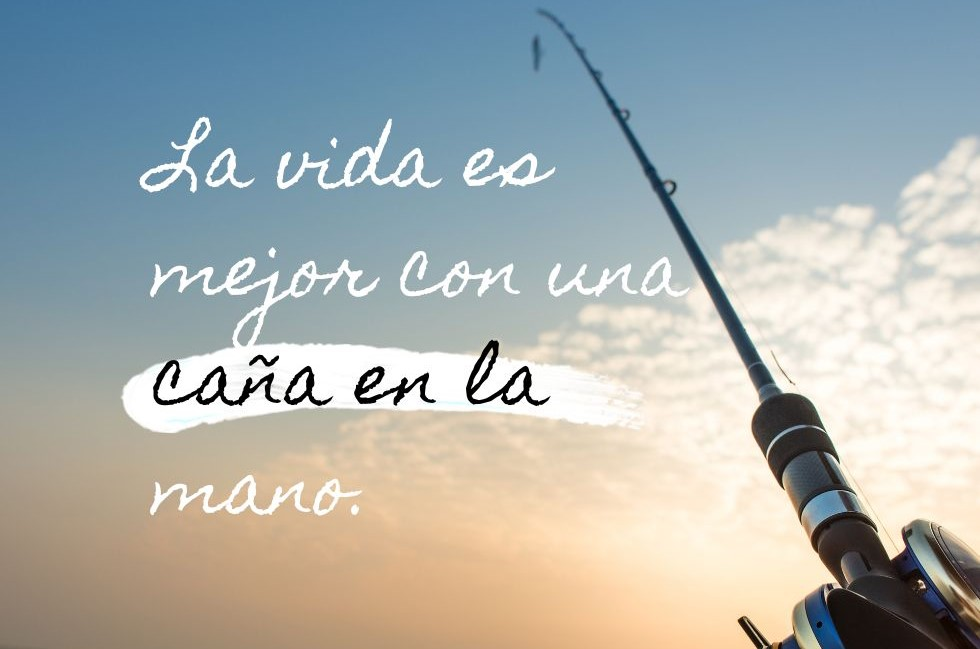
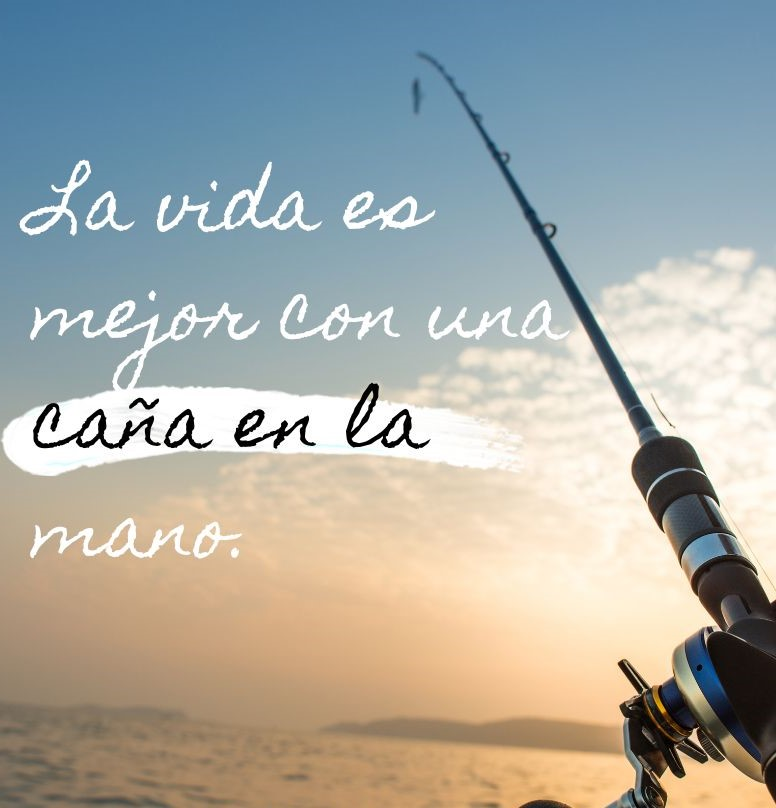
cambios

diff --git a/styles.css b/styles.css
@@ -44,7 +44,7 @@
   text-align: center;
 } */
 .portada p {
-  font-size: 3rem;
+  font-size: 2 rem;
   font-family: "Homemade Apple", cursive;
   font-optical-sizing: auto;
   font-weight: 500;
@@ -68,7 +68,8 @@
   align-items: center;
   align-content: center;
   background-image: url(./imagenes/frase_pesca.jpg);
-  background-position: center;
+  background-position: left;
+  background-position-x: center;
   gap: 80px;
 }
 
